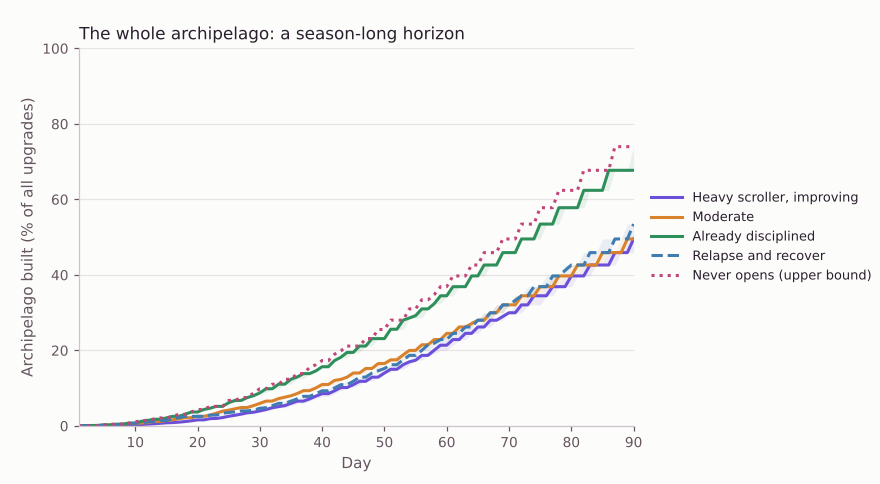
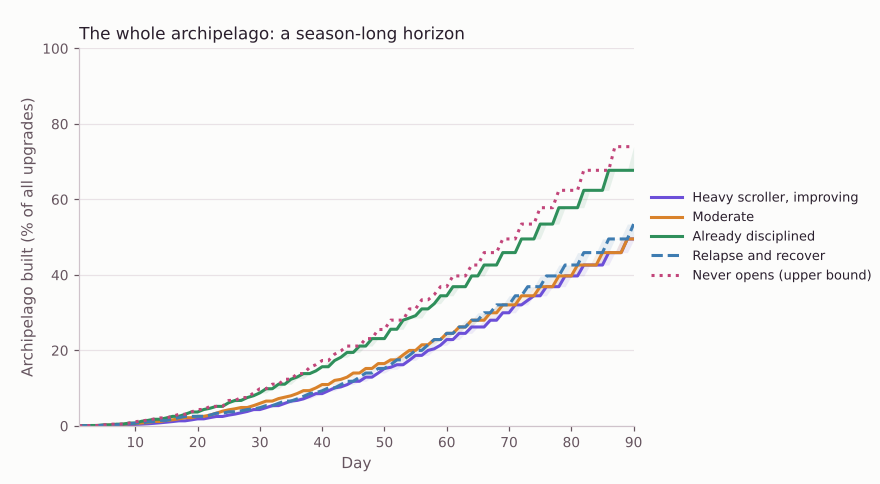
feat(core): band-relative healing only in the two lowest bands
From "tired" up a quiet hour heals a flat 5 again; in "curled up" and
"unwell" it still reaches the next edge (ADR-0017). The simulation uses
the same rule; its tables and charts are re-run.

Claude-Session: https://claude.ai/code/session_01GwfTHNW9LJ553xGrq8gZ2a

Changed region(s): [[0.4602, 0.4649, 0.7364, 0.7438], [0.2148, 0.7438, 0.4602, 0.8678], [0.1841, 0.8678, 0.2148, 0.8988]]

diff --git a/Packages/PofuKit/Tests/PofuCoreTests/CareLedgerTests.swift b/Packages/PofuKit/Tests/PofuCoreTests/CareLedgerTests.swift
@@ -49,14 +49,7 @@ struct CareLedgerTests {
         #expect(CareLedger(wellbeing: 400, rules: rules).wellbeing == 100)
     }
 
-    @Test func aQuietHourHealsOneBandsWidth() {
-        var tired = CareLedger(wellbeing: 25, rules: rules)
-        for _ in 0..<60 {
-            tired.healMinute(rules: rules)
-        }
-        #expect(tired.wellbeing == 50)
-        #expect(tired.band(rules: rules) == .content)
-
+    @Test func aQuietHourHealsTheBottomBandsByTheirWidth() {
         var curled = CareLedger(wellbeing: 5, rules: rules)
         for _ in 0..<30 {
             curled.healMinute(rules: rules)
@@ -64,7 +57,8 @@ struct CareLedgerTests {
         #expect(abs(curled.wellbeing - 8.5) < 1e-6)
     }
 
-    /// ADR-0017: one quiet hour visibly lifts Pofu a band, from the floor.
+    /// ADR-0017: one quiet hour lifts Pofu out of the bottom, from the
+    /// floor.
     @Test func oneQuietHourLiftsACurledUpPofuABand() {
         var care = CareLedger(wellbeing: 5, rules: rules)
         #expect(care.band(rules: rules) == .curledUp)
@@ -74,24 +68,37 @@ struct CareLedgerTests {
         #expect(care.band(rules: rules) == .unwell)
     }
 
-    /// The promise as a property: from any wellbeing, one quiet hour moves
-    /// Pofu up exactly one band, unless he is already cozy.
-    @Test(arguments: [UInt64(1), 2, 3, 4])
-    func oneQuietHourMovesExactlyOneBand(seed: UInt64) {
+    /// From anywhere in the two lowest bands, one quiet hour reaches the
+    /// next band edge.
+    @Test(arguments: [UInt64(1), 2, 3])
+    func inTheBottomBandsOneQuietHourReachesTheNextEdge(seed: UInt64) {
         var rng = SplitMix64(seed: seed)
-        let edges = [5.0, 12, 25, 50, 75, 100]
-        var starts = edges + edges.map { $0 - 1e-9 } + edges.map { $0 - 0.01 } + edges.map { $0 + 1e-9 }
-        starts += (0..<200).map { _ in Double.random(in: 5...100, using: &rng) }
-        let all = WellbeingBand.allCases
-        for start in starts where start >= 5 && start <= 100 {
+        var starts: [Double] = [5, 5 + 1e-9, 11.99, 12 - 1e-9, 12, 12 + 1e-9, 24.99, 25 - 1e-9]
+        starts += (0..<200).map { _ in Double.random(in: 5..<25, using: &rng) }
+        for start in starts {
             var care = CareLedger(wellbeing: start, rules: rules)
-            let before = care.band(rules: rules)
+            let edge = start < 12 ? 12.0 : 25.0
             for _ in 0..<60 {
                 care.healMinute(rules: rules)
             }
-            let after = care.band(rules: rules)
-            let expected = before == .cozy ? WellbeingBand.cozy : all[(all.firstIndex(of: before) ?? 0) + 1]
-            #expect(after == expected, "from \(start): \(before) → \(after)")
+            #expect(care.wellbeing >= edge, "from \(start): \(care.wellbeing)")
+            // Never a band further than the promise within the hour.
+            #expect(care.wellbeing < edge + 13, "from \(start): \(care.wellbeing)")
+        }
+    }
+
+    /// From "tired" up, one quiet hour heals exactly 5, capped at 100.
+    @Test(arguments: [UInt64(1), 2, 3])
+    func aboveTheBottomOneQuietHourHealsFive(seed: UInt64) {
+        var rng = SplitMix64(seed: seed)
+        var starts: [Double] = [25, 49.99, 50, 74.99, 75, 94.5, 95, 97, 100]
+        starts += (0..<200).map { _ in Double.random(in: 25...100, using: &rng) }
+        for start in starts {
+            var care = CareLedger(wellbeing: start, rules: rules)
+            for _ in 0..<60 {
+                care.healMinute(rules: rules)
+            }
+            #expect(abs(care.wellbeing - min(100, start + 5)) < 1e-9, "from \(start): \(care.wellbeing)")
         }
     }
 

diff --git a/Packages/PofuKit/Tests/PofuCoreTests/WorldClockTests.swift b/Packages/PofuKit/Tests/PofuCoreTests/WorldClockTests.swift
@@ -29,8 +29,7 @@ struct WorldClockTests {
         #expect(delta.awayMinutes == 60)
         #expect(delta.calmSteps == 3)
         #expect(world.state.calm.multiplier == 1.3)
-        // Content to the edge in 12 minutes, then 48 minutes of cozy.
-        #expect(abs(world.state.care.wellbeing - 95) < 1e-6)
+        #expect(abs(world.state.care.wellbeing - 75) < 1e-9)
         #expect(delta.gatheredSeeds == 6)
         // 19 minutes at ×1.0, 20 at ×1.1, 20 at ×1.2, 1 at ×1.3 of 6 an
         // hour: 6.63 seeds, the fraction carried.
@@ -161,18 +160,17 @@ struct WorldClockTests {
     // MARK: - Opens and calm
 
     /// ADR-0017 through the facade: an observed quiet waking hour lifts
-    /// Pofu exactly one band, from any band below the top.
-    @Test(arguments: [5.0, 11.99, 12, 24.5, 25, 49.99, 50, 74, 80])
-    func anObservedQuietHourLiftsPofuOneBand(wellbeing: Double) {
+    /// Pofu out of the two lowest bands; above them it heals 5.
+    @Test(arguments: [(5.0, 12.0), (11.99, 12), (12, 25), (24.5, 25), (25, 30), (49.99, 54.99), (98, 100)])
+    func anObservedQuietHourHeals(wellbeing: Double, atLeast: Double) {
         var world = World()
         world.state.care = CareLedger(wellbeing: wellbeing, rules: world.rules.care)
-        let before = world.state.care.band(rules: world.rules.care)
         world.advance(to: noon, .signOfLife(at: noon))
         world.advance(to: noon.adding(hours: 1))
-        let after = world.state.care.band(rules: world.rules.care)
-        let all = WellbeingBand.allCases
-        let expected = before == .cozy ? WellbeingBand.cozy : all[(all.firstIndex(of: before) ?? 0) + 1]
-        #expect(after == expected)
+        #expect(world.state.care.wellbeing >= atLeast - 1e-9)
+        if wellbeing >= 25 {
+            #expect(abs(world.state.care.wellbeing - atLeast) < 1e-9)
+        }
     }
 
     @Test func aQuickCheckHalvesAndAChainedOneResets() {
@@ -266,9 +264,9 @@ struct WorldClockTests {
         // 22:00–23:00 grows three steps (×1.3), the night holds the run
         // and adds 0.2, and 06:00–07:00 grows three more.
         #expect(world.state.calm.tenths == 18)
-        // 70 → 95 for the quiet hour, + 10 for the calm night (no sleep-off
-        // above 60), capped at 100.
-        #expect(world.state.care.wellbeing == 100)
+        // 70 + 5 for the quiet hour, + 10 for the calm night (no sleep-off
+        // above 60); then one waking hour heals 5 more.
+        #expect(abs(world.state.care.wellbeing - 90) < 1e-9)
     }
 
     @Test func anOpenAtNightSpoilsTheCalmNight() {

diff --git a/Packages/PofuKit/Sources/PofuCore/Game/CareLedger.swift b/Packages/PofuKit/Sources/PofuCore/Game/CareLedger.swift
@@ -64,13 +64,18 @@ public struct CareLedger: Hashable, Sendable, Codable {
         change(by: -rules.drainPerMinute * night * escalation, rules: rules)
     }
 
-    /// One minute of calm waking time: 1/60 of the current band's width,
-    /// stopping at the band's upper edge. Sixty such minutes lift Pofu
-    /// exactly one band, from anywhere in it (ADR-0017's "one quiet hour
-    /// lifts him a band"): from the band's floor the hour reaches the next
-    /// edge, and once an edge is crossed the minutes left are fewer than
-    /// the next band needs.
+    /// One minute of calm waking time.
+    ///
+    /// From "tired" up, a flat `healPerCalmHour` / 60. In the two lowest
+    /// bands ("curled up" and "unwell"), 1/60 of the band's width, stopping
+    /// at its upper edge: one quiet hour lifts Pofu out of either band from
+    /// anywhere in it (ADR-0017's "one quiet hour lifts him a band", from
+    /// the floor), and never past the next edge in that minute.
     public mutating func healMinute(rules: CareRules) {
+        guard wellbeing < rules.tiredFrom else {
+            change(by: rules.healPerCalmHour / 60, rules: rules)
+            return
+        }
         let bounds = bandBounds(rules: rules)
         // A hair over 1/60, so sixty minutes from the floor always reach
         // the edge despite rounding; the edge caps the overshoot.

diff --git a/Packages/PofuKit/Sources/PofuCore/Game/GameRules.swift b/Packages/PofuKit/Sources/PofuCore/Game/GameRules.swift
@@ -17,12 +17,11 @@ public struct CareRules: Hashable, Sendable, Codable {
     public var escalationWindow: TimeInterval = 3 * 60 * 60
     /// Drain for the reach itself, once per open.
     public var drainPerOpen: Double = 1.5
-    /// Calm waking time heals by bands, keeping ADR-0017's promise that
-    /// one quiet hour visibly lifts Pofu a band, whatever band he is in:
-    /// each observed calm minute heals 1/60 of the current band's width
-    /// (7 from the floor, 13 unwell, 25 tired, content and cozy), and no
-    /// minute crosses more than one band edge, so an hour lifts him exactly
-    /// one band (`CareLedger.healMinute`).
+    /// Healing per hour of calm waking time from "tired" up. In the two
+    /// lowest bands healing is band-relative instead, keeping ADR-0017's
+    /// promise that one quiet hour lifts Pofu out of the bottom
+    /// (`CareLedger.healMinute`).
+    public var healPerCalmHour: Double = 5
     /// Healing for a calm night (no opens, observed throughout).
     public var calmNightHeal: Double = 10
     /// Healing per resisted reach, for at most `healedSkipsPerDay` a day.

diff --git a/tools/sim/island_economy.py b/tools/sim/island_economy.py
@@ -11,8 +11,9 @@ Models docs/product/game-design.md (v2) and ADR-0015 to ADR-0017:
   capped gift per resisted reach. They buy station levels and nothing
   else; never screen time.
 - **Pofu's wellbeing** (keyif, 5-100, never below 5): guarded-app time
-  drains it, quiet time and calm nights heal it, and each night he "sleeps
-  it off" part of the way back to 60.
+  drains it, quiet time and calm nights heal it (from the bottom, one quiet
+  hour lifts him a band; from "tired" up, 5 an hour), and each night he
+  "sleeps it off" part of the way back to 60.
 - **The calm multiplier** (huzur, x1.0 -> x2.0): grows with continuous calm
   waking time. A full open resets it to x1.0; a **quick check** (a pass of
   3 minutes or less) only halves the bonus, unless it follows another quick
@@ -81,11 +82,26 @@ DRAIN_PER_MIN = 0.35
 DRAIN_NIGHT_MULT = 2.0
 DRAIN_ESCALATION = 1.25
 DRAIN_PER_OPEN = 1.5
-HEAL_PER_CALM_HOUR = 5.0
+HEAL_PER_CALM_HOUR = 5.0     # from "tired" (25) up
+CURLED_UP_BELOW = 12.0       # the two lowest bands heal band-relative (ADR-0017):
 HEAL_SLEPT_ON_IT = 10.0
 HEAL_PER_SKIP = 1.0
 SKIP_HEAL_CAP = 6
 UNWELL = 25.0
+
+
+def heal_minute(health):
+    """One observed calm waking minute (PofuCore `CareLedger.healMinute`).
+
+    From "tired" up, a flat 5 an hour. In "curled up" (5-12) and "unwell"
+    (12-25), 1/60 of the band's width, stopping at its upper edge, so one
+    quiet hour lifts Pofu out of either band from anywhere in it
+    (ADR-0017's "one quiet hour lifts him a band").
+    """
+    if health >= UNWELL:
+        return min(100.0, health + HEAL_PER_CALM_HOUR / 60)
+    lower, upper = (HEALTH_FLOOR, CURLED_UP_BELOW) if health < CURLED_UP_BELOW else (CURLED_UP_BELOW, UNWELL)
+    return min(health + (upper - lower) / 60 * (1 + 1e-9), upper)
 UNWELL_PRODUCTION = 0.6
 NIGHT_RECOVERY = 0.3         # "sleeps it off": below 60, 30 % of the way back each night
 RECOVERY_TARGET = 60.0
@@ -335,7 +351,7 @@ def simulate(a: Archetype, rng: random.Random, resist_shift=0.0, loss_aversion=0
             elif not bedtime:
                 calm_run += 1
                 quiet_run += 1
-                health = min(100.0, health + HEAL_PER_CALM_HOUR / 60)
+                health = heal_minute(health)
                 if calm_run % CALM_STEP_MIN == 0:
                     calm = min(CALM_MAX, round(calm + CALM_STEP, 2))
                 if quiet_run % QUIET_BLOCK_MIN == 0 and quiet_today < QUIET_DAILY_CAP:

diff --git a/docs/product/game-design.md b/docs/product/game-design.md
@@ -166,7 +166,7 @@ down.
 | Start | 70 |
 | Drain while a guarded app is open | 0.35 per minute; ×2 inside bedtime; ×1.25 per earlier open in the last 3 h |
 | Drain per open | 1.5 (the reach itself) |
-| Heal while calm (waking) | **one band per quiet hour** (ADR-0017's promise): each observed calm minute heals 1/60 of the current band's width (7 from the floor, 13 unwell, 25 tired and up), and no minute crosses more than one band edge, so an hour lifts Pofu exactly one band from anywhere |
+| Heal while calm (waking) | 5 per hour from "tired" up. In the two lowest bands ("curled up", "unwell"), **one quiet hour lifts Pofu out of the band** (ADR-0017's promise): each observed calm minute heals 1/60 of the band's width (7 curled up, 13 unwell), stopping at its edge |
 | Calm night (no opens 23:00–06:00) | +10 |
 | Skip | +1, at most 6 a day |
 | **Sleeps it off** | each night, wellbeing below 60 moves 30 % of the way back to 60 |
@@ -176,7 +176,7 @@ down.
 The meter shows a soft bar and a mood word, never a number. "Sleeps it
 off" stays (founder, 2026-11-01): a bad day must not stack into a bad
 week. Without it the heavy scroller's Pofu was unwell for 20 of 60 days;
-with it, 6 of 90.
+with it, 6 of 90; with the bottom bands healing by their width, 3 of 90.
 
 ### The calm multiplier (TR: *huzur*)
 
@@ -504,13 +504,13 @@ Rules the spec left open, as implemented:
   stretch starts at the sign of life); **A20 pauses** them (the run
   holds). Neither drains nor heals Pofu. "Sleeps it off" applies every
   night, observed or not: it only ever lifts him toward 60.
-- **One quiet hour lifts Pofu exactly one band**, from any wellbeing and
-  from the floor (ADR-0017). A flat 5 an hour could not keep that promise
-  (5 → 10 stays curled up; the bands are 7, 13 and 25 wide), so healing is
-  band-relative: 1/60 of the current band's width a minute, stopping at
-  the edge. Tested as a property (`CareLedgerTests`, `WorldClockTests`).
-  The simulation (`tools/sim`) still heals a flat 5 an hour; its
-  wellbeing tables predate this and understate recovery.
+- **One quiet hour lifts Pofu out of the bottom** (ADR-0017). A flat 5
+  an hour leaves him curled up from the floor (5 → 10; the band ends at
+  12), so the two lowest bands heal by their width: 1/60 of it a minute,
+  stopping at the edge, so one quiet hour reaches the next edge from
+  anywhere in "curled up" or "unwell". From "tired" up healing stays a
+  flat 5 an hour, keeping the stakes. Tested in `CareLedgerTests` and
+  `WorldClockTests`; the simulation uses the same rule.
 
 ## 14. Economy simulation
 
@@ -526,18 +526,18 @@ anywhere first, at most two per visit).
 
 | Archetype | First build (day) | Home island done (day) | Home at day 30 | İskele arrives | Yıldız arrives | Islands at day 60 / 90 | Archipelago at day 90 | Weeks without a build (of 12) |
 |---|---|---|---|---|---|---|---|---|
-| Heavy scroller, improving | 1 | 65 | 33 % | day 9 | day 22 | 5 / 5 | 50 % | 0 |
+| Heavy scroller, improving | 1 | 64 | 33 % | day 9 | day 22 | 5 / 5 | 50 % | 0 |
 | Moderate | 1 | 62 | 33 % | day 9 | day 22 | 5 / 5 | 50 % | 0 |
 | Already disciplined | 1 | 46 | 63 % | day 9 | day 22 | 5 / 5 | 68 % | 0 |
-| Relapse and recover | 1 | 63 | 33 % | day 9 | day 22 | 5 / 5 | 53 % | 0 |
+| Relapse and recover | 1 | 62 | 33 % | day 9 | day 22 | 5 / 5 | 53 % | 0 |
 | Never opens (upper bound) | 1 | 42 | 63 % | day 9 | day 22 | 5 / 5 | 74 % | 0 |
 
 | Archetype | Calm avg wk 1 → wk 13 | Resets / halvings per day | Breathing breaks/day wk 1 → wk 13 (seconds/day, wk 1) | Wellbeing wk 1 → wk 13 (lowest) | Unwell days | Feed min/day wk 1 → wk 13 | Seeds/day wk 1 | Wk 1 share: Pofu's gathering / skips |
 |---|---|---|---|---|---|---|---|---|
-| Heavy scroller, improving | 1.17× → 1.51× | 5.8 / 2.5 | 17.4 → 0.1 (159 s) | 32 → 98 (5) | 6 | 183 → 40 | 609 | 9 % / 2 % |
+| Heavy scroller, improving | 1.17× → 1.51× | 5.8 / 2.5 | 17.4 → 0.1 (159 s) | 36 → 98 (5) | 3 | 183 → 40 | 721 | 8 % / 2 % |
 | Moderate | 1.36× → 1.45× | 5.0 / 3.6 | 2.6 → 0.7 (19 s) | 92 → 96 (25) | 0 | 68 → 51 | 1,194 | 5 % / 1 % |
 | Already disciplined | 1.88× → 1.87× | 0.7 / 1.5 | 0.0 → 0.0 (0 s) | 100 → 100 (70) | 0 | 5 → 5 | 1,778 | 3 % / 1 % |
-| Relapse and recover | 1.39× → 1.61× | 4.5 / 2.6 | 1.4 → 0.0 (10 s) | 96 → 99 (5) | 4 | 63 → 27 | 1,248 | 5 % / 1 % |
+| Relapse and recover | 1.39× → 1.61× | 4.5 / 2.6 | 1.4 → 0.0 (10 s) | 96 → 99 (5) | 3 | 63 → 27 | 1,248 | 5 % / 1 % |
 | Never opens (upper bound) | 1.99× → 2.00× | 0.0 / 0.0 | 0.0 → 0.0 (0 s) | 100 → 100 (70) | 0 | 0 → 0 | 1,887 | 3 % / 1 % |
 
 _Medians of 30 runs, 90 days._
@@ -563,12 +563,12 @@ _Medians of 30 runs, 90 days._
   top level hold the line.
 - **Heavy scrollers still progress.** İskele arrives on day 9 for every
   archetype, every archetype builds something every week for 12 weeks,
-  and the heavy scroller finishes the home island on day 65. Calm decides
+  and the heavy scroller finishes the home island on day 64. Calm decides
   *how fast*, never *whether*.
 - **Scrolling visibly slows the world and tires Pofu.** Week-1 seeds a
-  day: 609 for the heavy scroller against 1,778 for the disciplined
+  day: 721 for the heavy scroller against 1,778 for the disciplined
   player. Wellbeing is the louder signal: the heavy scroller's Pofu starts
-  tired (32) and recovers to cozy as feed time falls from 183 to 40
+  tired (36) and recovers to cozy as feed time falls from 183 to 40
   minutes a day.
 
 **Findings that changed the design:**

diff --git a/docs/product/economy.md b/docs/product/economy.md
@@ -541,7 +541,7 @@ full rules are [game design §5](game-design.md#5-mechanics-and-numbers).
 
 | Part | Type | What it holds |
 |---|---|---|
-| Wellbeing | `CareLedger` | 5–100 (start 70); −0.35 a minute in a guarded app (×2 at night, ×1.25 per earlier open in 3 h), −1.5 per open; one band per calm waking hour (1/60 of the band's width a minute, never past its edge), +1 a skip (6 a day), +10 a calm night; below 60, 30 % of the way back each night |
+| Wellbeing | `CareLedger` | 5–100 (start 70); −0.35 a minute in a guarded app (×2 at night, ×1.25 per earlier open in 3 h), −1.5 per open; +5 a calm waking hour from "tired" up, and in "curled up" and "unwell" one band per quiet hour (1/60 of the band's width a minute, never past its edge), +1 a skip (6 a day), +10 a calm night; below 60, 30 % of the way back each night |
 | Calm | `CalmAccrual` | ×1.0–×2.0 in integer tenths; +0.1 per 20 observed calm waking minutes; a quick check (≤ 3 min) halves the bonus, a second within 20 min of the last one's end resets it; any other open resets; +0.2 a calm night |
 | Seeds | `StationLedger` | A pouch by source, collected into a jar, spent only on builds. Stations: designed ladders × calm × care (×0.6 below 25), only while away and observed, fractions carried. Pofu's gathering: 1 per 10 quiet waking minutes, 48 a day, +10 a calm night. Skips: +3, 5 a day |
 | The breath | `BreathRules` | Past the daily hour: 5 s for the 1st–3rd over-limit open, 10 s from the 4th, never more than 10 s; the fourth rapid reach falls back to the 10 s breath; never for the emergency pass; "Not now" is a skip |

diff --git a/CHANGELOG.md b/CHANGELOG.md
@@ -70,9 +70,10 @@ and this project adheres to [Semantic Versioning](https://semver.org/spec/v2.0.0
 
 ### Changed
 
-- One quiet hour lifts Pofu exactly one band, from the floor too
-  (ADR-0017): calm waking time heals 1/60 of the current band's width a
-  minute instead of a flat 5 an hour.
+- One quiet hour lifts Pofu out of the two lowest bands, from the floor
+  too (ADR-0017): there, calm waking time heals 1/60 of the band's width a
+  minute; from "tired" up it stays 5 an hour. The economy simulation uses
+  the same rule.
 - Without notifications, "Pofu'yla aç" is never a dead end: the shield
   says "Pofu'yu kendin aç", and opening Pofu within 10 minutes starts
   Hop!. The notification tap is routed by the notification delegate; the
